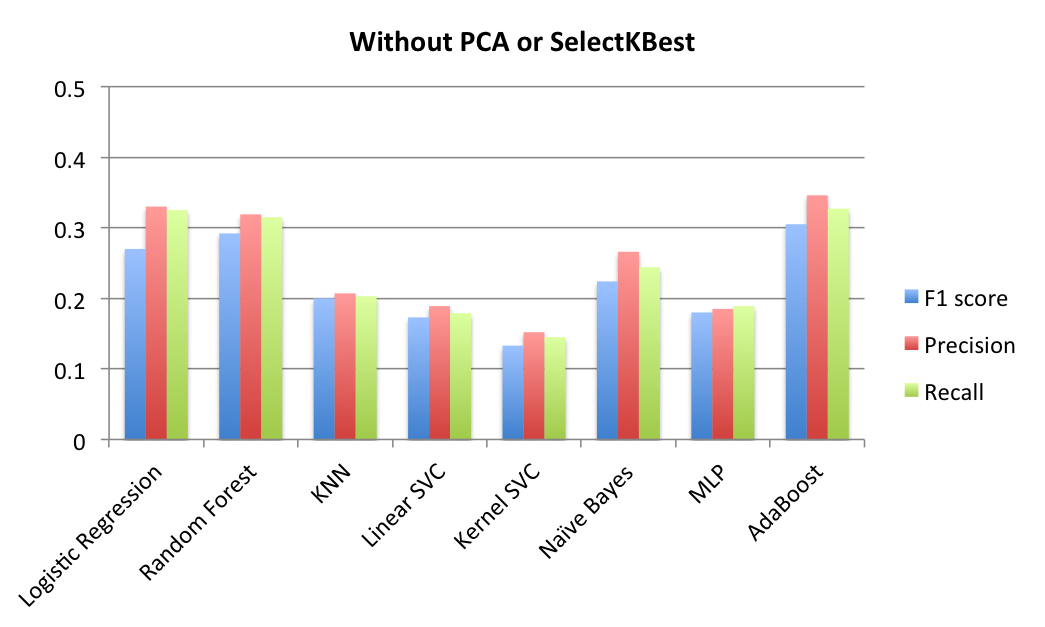
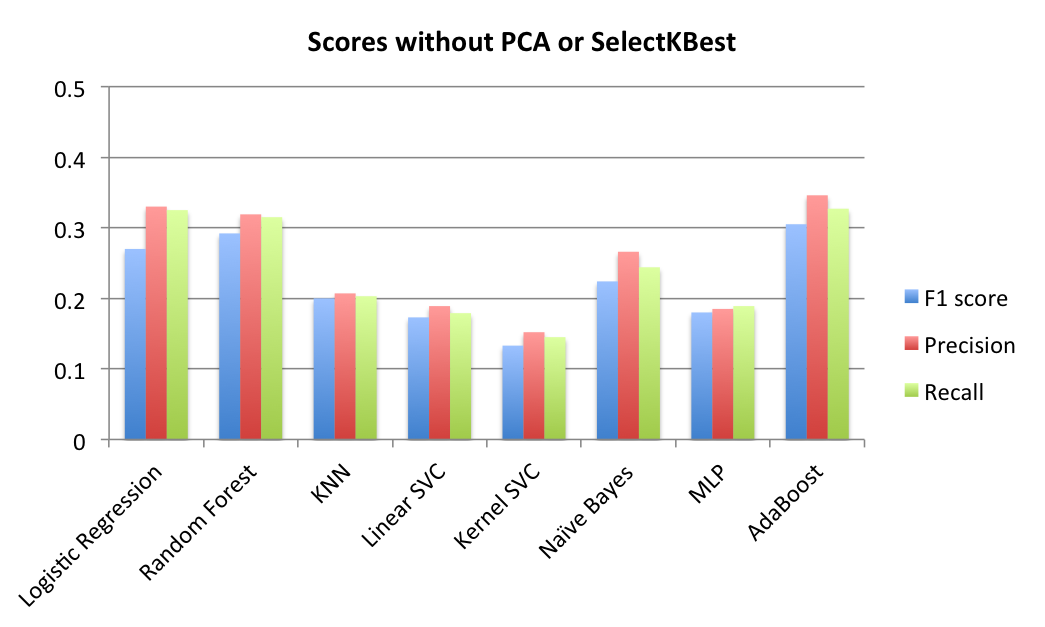
add figures

Changed region(s): [[0.2756, 0.0303, 0.7043, 0.0909]]

diff --git a/README.md b/README.md
@@ -70,7 +70,22 @@ the classifier (**Fig. 3**). The second includes StandardScaler, PCA, and the
 classifier (**Fig. 4**). The third includes MinMaxScaler, SelectKBest, and the
 clasifier. Overall, KNN Classifier with the third pipeline has the best average
 F1 score (0.35), precision (0.43), and recall (0.4) in the repeated nested
-cross validation. 
+cross validation.
+
+![Plot](Fig%203.png)
+
+**Figure 3.** F1 score, precision, and recall in algorithm selection without
+PCA or SelectKBest.
+
+![Plot](Fig%204.png)
+
+**Figure 4.** F1 score, precision, and recall in algorithm selection with
+PCA.
+
+![Plot](Fig%205.png)
+
+**Figure 5.** F1 score, precision, and recall in algorithm selection with
+SelectKBest.
 
 ## Model Selection
 
